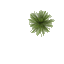
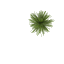
Dynamic shadows & tile layering
Tile layering fixes the clipping issues when drawing outside the tile

Changed region(s): [[0.4375, 0.1562, 0.875, 0.5938]]

diff --git a/client/js/classes/map.js b/client/js/classes/map.js
@@ -3,6 +3,8 @@ class Map {
 		this.width = width;
 		this.height = height;
 
+		this.map = [];
+		this.shadows = [];
 		this.generator = 'PERLIN';
 		this.noise = new Vector2(45, 45);
 
@@ -57,6 +59,7 @@ class Map {
 
 				tile.sprite.position.x = x * TILESIZE;
 				tile.sprite.position.y = y * TILESIZE;
+				tile.sprite.displayGroup = new PIXI.DisplayGroup(0, false);
 
 				this.scene.addChild(tile.sprite);
 
@@ -75,11 +78,23 @@ class Map {
 			if(rand > 75) {
 				var treeText = Game.assets.getAsset(TREES.NORMAL[Math.floor(Math.random() * TREES.NORMAL.length)]);
 				var tree = new PIXI.Sprite(treeText);
+				tree.displayGroup = new PIXI.DisplayGroup(3, false);
 
 				tree.position.x = x * TILESIZE;
 				tree.position.y = y * TILESIZE;
 
+				var shadow = new PIXI.Sprite(treeText);
+				shadow.tint = 0x000000;
+				shadow.alpha = 0.3;
+				shadow.displayGroup = new PIXI.DisplayGroup(1, false);
+
+				shadow.position = tree.position;
+				shadow.position.x += SHADOWOFFSET.x;
+				shadow.position.y += SHADOWOFFSET.y;
+
+				this.scene.addChild(shadow);
 				this.scene.addChild(tree);
+				this.shadows.push(shadow);
 			}
 		}
 
@@ -90,11 +105,23 @@ class Map {
 			if(rand > 90) {
 				var palmText = Game.assets.getAsset(TREES.PALMS[Math.floor(Math.random() * TREES.PALMS.length)]);
 				var palm = new PIXI.Sprite(palmText);
+				palm.displayGroup = new PIXI.DisplayGroup(3, false);
 
 				palm.position.x = x * TILESIZE;
 				palm.position.y = y * TILESIZE;
 
+				var shadow = new PIXI.Sprite(palmText);
+				shadow.tint = 0x000000;
+				shadow.alpha = 0.3;
+				shadow.displayGroup = new PIXI.DisplayGroup(1, false);
+
+				shadow.position = palm.position;
+				shadow.position.x += SHADOWOFFSET.x;
+				shadow.position.y += SHADOWOFFSET.y;
+
+				this.scene.addChild(shadow);
 				this.scene.addChild(palm);
+				this.shadows.push(shadow);
 			}
 		}
 	}
@@ -187,5 +214,18 @@ class Map {
 
 	nearestTileWorldPosition(vec2) {
 		return new Vector2(Math.floor(vec2.x / TILESIZE) * TILESIZE, Math.floor(vec2.y / TILESIZE) * TILESIZE);
+	}
+
+	setShadowOffset(vec2) {
+		for(var i = 0; i < this.shadows.length; i++) {
+			var ref = this.shadows[i];
+			ref.position.x = ref.position.x - SHADOWOFFSET.x + vec2.x;
+			ref.position.y = ref.position.y - SHADOWOFFSET.y + vec2.y;
+		}
+
+		SHADOWOFFSET.x = vec2.x;
+		SHADOWOFFSET.y = vec2.y;
+
+		return true;
 	}
 }

diff --git a/client/js/classes/scenehandler.js b/client/js/classes/scenehandler.js
@@ -8,6 +8,7 @@ class SceneHandler {
 	createScene(name, visible, index) {
 		index = index || 0;
 		var scene = new PIXI.Container();
+		//scene.displayList = new PIXI.DisplayList();
 
 		this.scenes[name] = scene;
 		this.setIndex(name, index);

diff --git a/client/js/const.js b/client/js/const.js
@@ -19,3 +19,9 @@ const TREES = {
 	PALMS: ['palm1', 'palm2', 'palm3']
 };
 const TILESIZE = 64;
+
+// Shadows
+var SHADOWOFFSET = {
+	x: 4,
+	y: 4
+};
